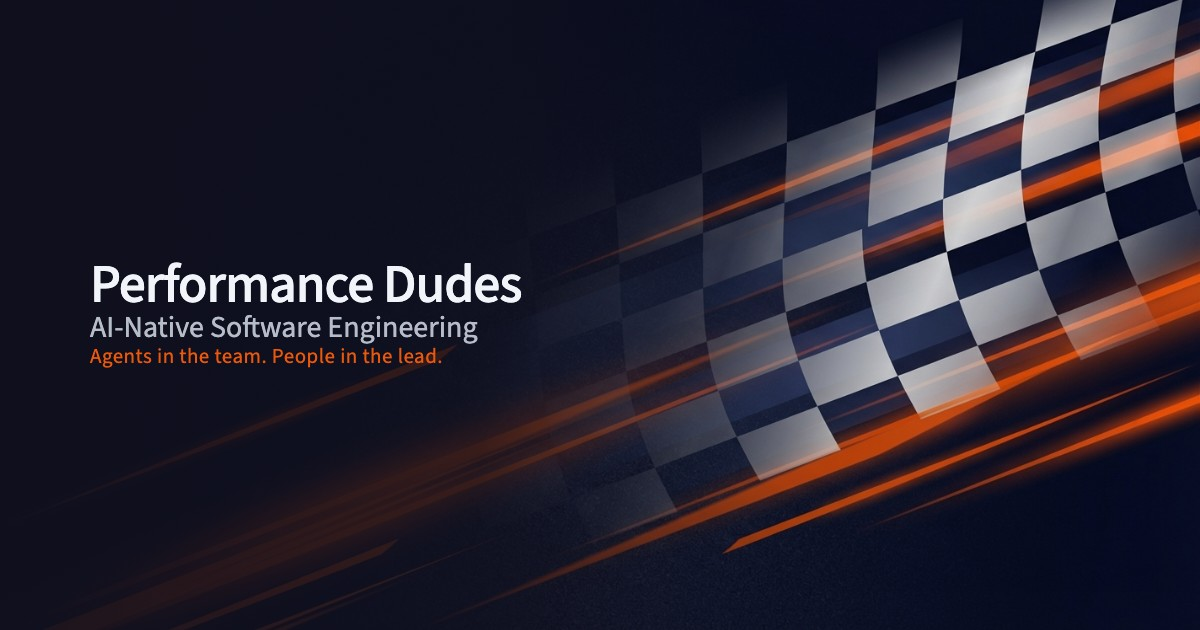
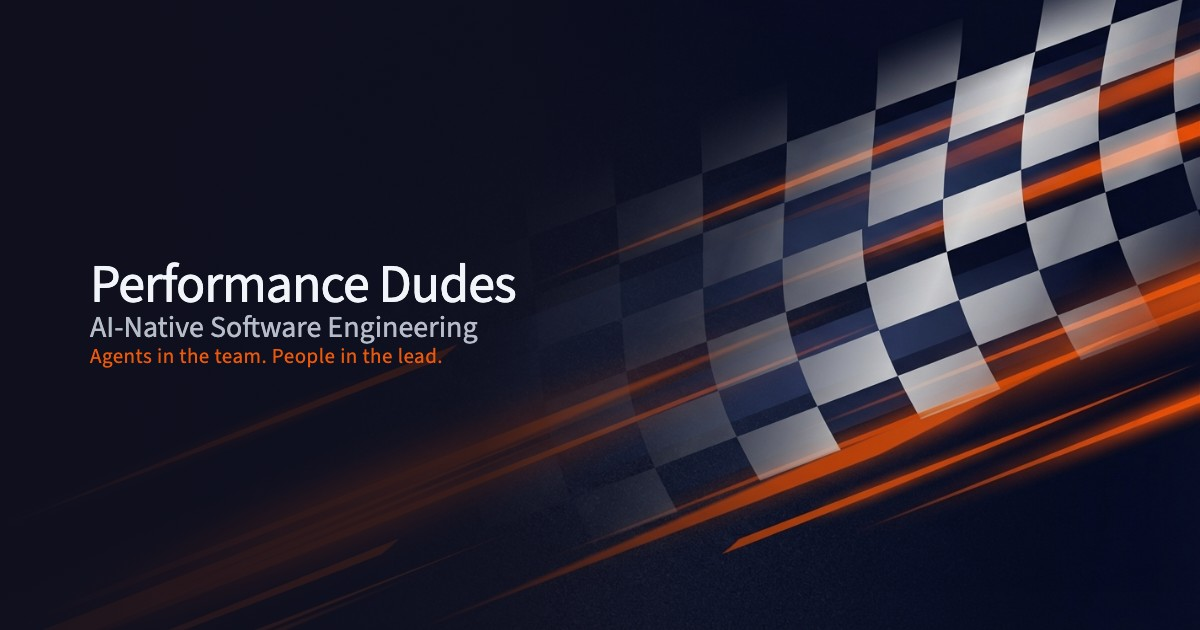
style(og): kompakten Titel auf fw400 (feiner/eleganter)
Nach direktem Gewichts-Vergleich (Original bold vs fw400 vs fw500) fällt die Wahl
auf fw400: die kompakte Variante wirkt damit am feinsten und elegantesten. Bewusst
dünner als das fette Original — der elegante, schlanke Eindruck war das Ziel.

Claude-Session: https://claude.ai/code/session_0145i5EJ38RYKJC6xyr5v5v8

Changed region(s): [[0.0925, 0.4222, 0.4317, 0.4825]]

diff --git a/scripts/og/og-template.html b/scripts/og/og-template.html
@@ -60,7 +60,7 @@
         --mb-eyebrow: 20px;
         --mb-title: 18px;
         --fw-eyebrow: 400;
-        --fw-title: 500;
+        --fw-title: 400;
         --fw-tagline: 400;
       }
       * { margin: 0; padding: 0; box-sizing: border-box; }
